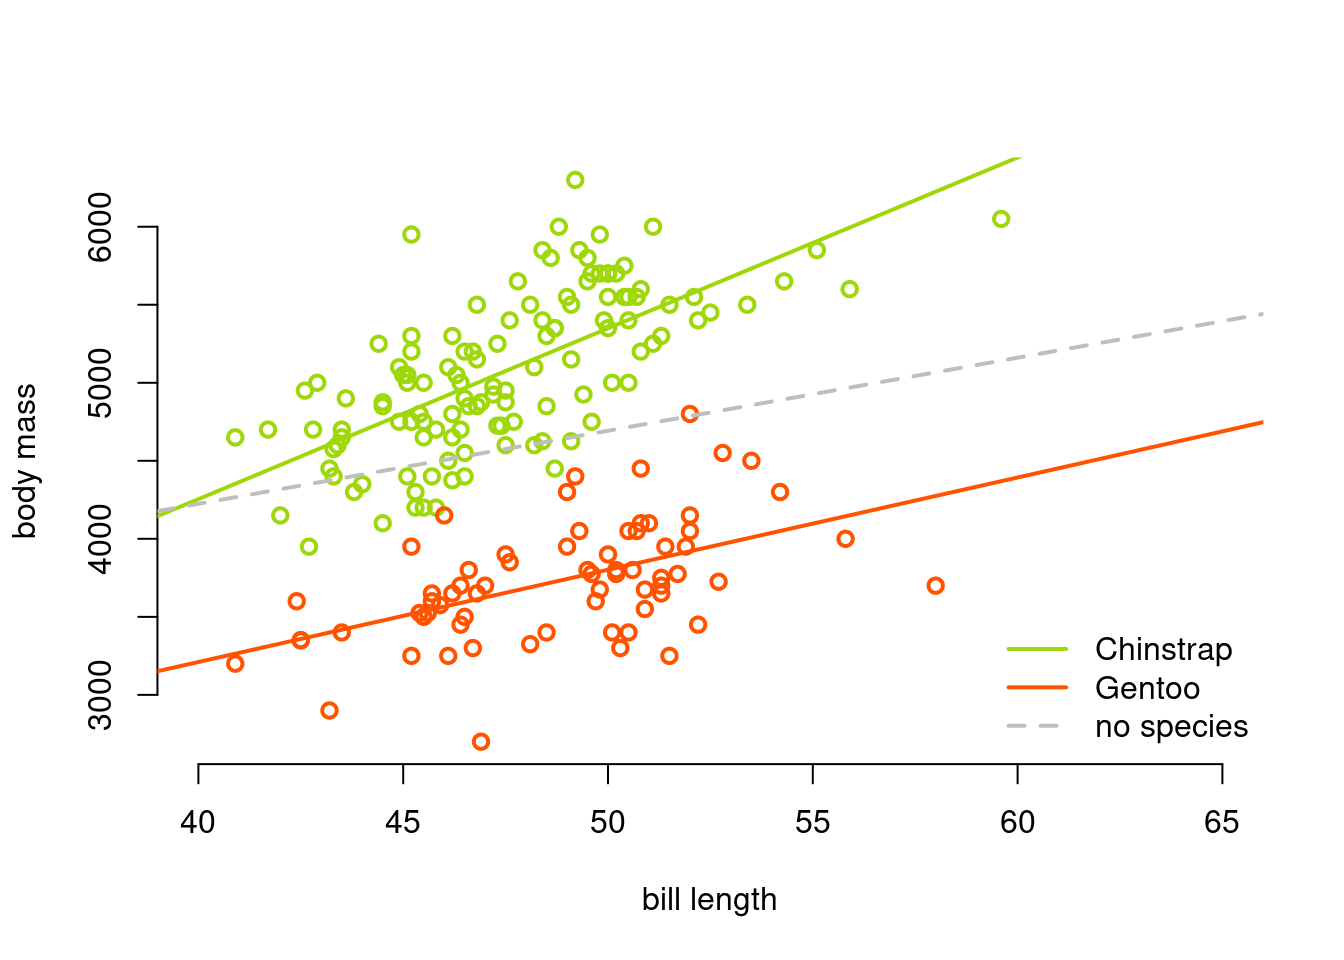
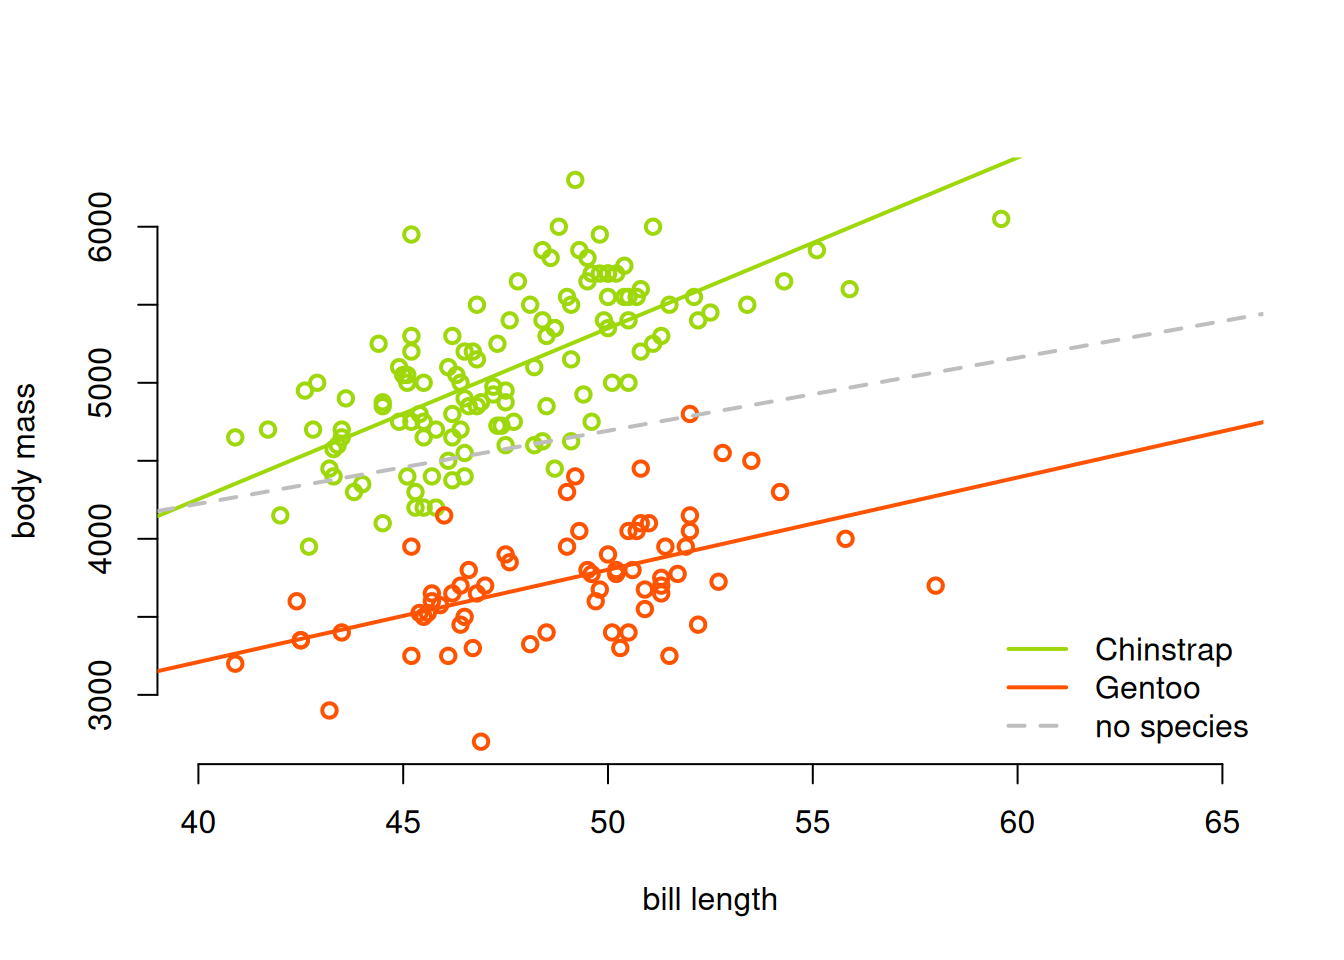
stuff

diff --git a/docs/lm-multiplepredictors.html b/docs/lm-multiplepredictors.html
@@ -74,7 +74,7 @@ pre > code.sourceCode > span > a:first-child::before { text-decoration: underlin
 <link href="site_libs/quarto-html/quarto-syntax-highlighting-2f5df379a58b258e96c21c0638c20c03.css" rel="stylesheet" id="quarto-text-highlighting-styles">
 <script src="site_libs/bootstrap/bootstrap.min.js"></script>
 <link href="site_libs/bootstrap/bootstrap-icons.css" rel="stylesheet">
-<link href="site_libs/bootstrap/bootstrap-c070a593f77c277f96034645df36e7e4.min.css" rel="stylesheet" append-hash="true" id="quarto-bootstrap" data-mode="light">
+<link href="site_libs/bootstrap/bootstrap-8113be787f79969ba645dd3b6582be9f.min.css" rel="stylesheet" append-hash="true" id="quarto-bootstrap" data-mode="light">
 <script id="quarto-search-options" type="application/json">{
   "location": "sidebar",
   "copy-button": false,
@@ -351,7 +351,7 @@ window.Quarto = {
 <div class="cell-output-display">
 <div>
 <figure class="figure">
-<p><img src="lm-multiplepredictors_files/figure-html/unnamed-chunk-2-1.png" class="img-fluid figure-img" width="672"></p>
+<p><img src="lm-multiplepredictors_files/figure-html/unnamed-chunk-1-1.png" class="img-fluid figure-img" width="672"></p>
 </figure>
 </div>
 </div>
@@ -364,7 +364,7 @@ window.Quarto = {
 <div class="cell-output-display">
 <div>
 <figure class="figure">
-<p><img src="lm-multiplepredictors_files/figure-html/unnamed-chunk-3-1.png" class="img-fluid figure-img" width="672"></p>
+<p><img src="lm-multiplepredictors_files/figure-html/unnamed-chunk-2-1.png" class="img-fluid figure-img" width="672"></p>
 </figure>
 </div>
 </div>
@@ -390,6 +390,12 @@ window.Quarto = {
 <li>You can pick a new model</li>
 <li>You can continue onward. Linear models (particularly ANOVAs) tend to be robust to assumption breaking, but only to a point</li>
 </ol>
+<div class="fyi">
+<p><strong>General vs Generalized linear models</strong></p>
+<p>These are often confused!</p>
+<p>This section will discuss a general linear model.</p>
+<p>In contrast, generalized linear models are linear models that relax the assumption that the residuals are normally distributed. Instead, the residuals can follow alternative distributions like the exponential, binomial, poisson… etc. You will learn more about these models in 831</p>
+</div>
 </section>
 </section>
 <section id="motivating-example" class="level2" data-number="7.3">
@@ -405,7 +411,7 @@ window.Quarto = {
 <div class="cell-output-display">
 <div>
 <figure class="figure">
-<p><img src="lm-multiplepredictors_files/figure-html/unnamed-chunk-4-1.png" class="img-fluid figure-img" width="672"></p>
+<p><img src="lm-multiplepredictors_files/figure-html/unnamed-chunk-3-1.png" class="img-fluid figure-img" width="672"></p>
 </figure>
 </div>
 </div>
@@ -554,7 +560,7 @@ Signif. codes:  0 '***' 0.001 '**' 0.01 '*' 0.05 '.' 0.1 ' ' 1</code></pre>
 <div class="cell-output-display">
 <div>
 <figure class="figure">
-<p><img src="lm-multiplepredictors_files/figure-html/unnamed-chunk-11-1.png" class="img-fluid figure-img" width="672"></p>
+<p><img src="lm-multiplepredictors_files/figure-html/unnamed-chunk-9-1.png" class="img-fluid figure-img" width="672"></p>
 </figure>
 </div>
 </div>
@@ -571,7 +577,7 @@ Signif. codes:  0 '***' 0.001 '**' 0.01 '*' 0.05 '.' 0.1 ' ' 1</code></pre>
 <div class="cell-output-display">
 <div>
 <figure class="figure">
-<p><img src="lm-multiplepredictors_files/figure-html/unnamed-chunk-12-1.png" class="img-fluid figure-img" width="672"></p>
+<p><img src="lm-multiplepredictors_files/figure-html/unnamed-chunk-10-1.png" class="img-fluid figure-img" width="672"></p>
 </figure>
 </div>
 </div>
@@ -672,10 +678,6 @@ Signif. codes:  0 '***' 0.001 '**' 0.01 '*' 0.05 '.' 0.1 ' ' 1</code></pre>
 <p>The leftmost matrix is a <em>design matrix</em> where each row corresponds to an individual <span class="math inline">\(i\)</span> and each column corresponds to an explanatory variable. A cell in the <span class="math inline">\(i^{th}\)</span> row and <span class="math inline">\(j^{th}\)</span> column corresponds to individual <span class="math inline">\(i\)</span>’s value for the <span class="math inline">\(j^{th}\)</span> explanatory variable. The first row corresponds to the intercept so all individuals have a value of 1.</p>
 <p>The middle matrix is a list of the estimated effect sizes for each corresponding explanatory variable.</p>
 <p>The dot product of these two matrices gives us the predicted value for the response variable for each individual.</p>
-<div class="fyi">
-<p><strong>General vs Generalized linear models</strong></p>
-<p>These are often confused!</p>
-</div>
 
 
 </section>

diff --git a/docs/lab5.1-regression.html b/docs/lab5.1-regression.html
@@ -74,7 +74,7 @@ pre > code.sourceCode > span > a:first-child::before { text-decoration: underlin
 <link href="site_libs/quarto-html/quarto-syntax-highlighting-2f5df379a58b258e96c21c0638c20c03.css" rel="stylesheet" id="quarto-text-highlighting-styles">
 <script src="site_libs/bootstrap/bootstrap.min.js"></script>
 <link href="site_libs/bootstrap/bootstrap-icons.css" rel="stylesheet">
-<link href="site_libs/bootstrap/bootstrap-c070a593f77c277f96034645df36e7e4.min.css" rel="stylesheet" append-hash="true" id="quarto-bootstrap" data-mode="light">
+<link href="site_libs/bootstrap/bootstrap-8113be787f79969ba645dd3b6582be9f.min.css" rel="stylesheet" append-hash="true" id="quarto-bootstrap" data-mode="light">
 <script id="quarto-search-options" type="application/json">{
   "location": "sidebar",
   "copy-button": false,

diff --git a/docs/lm-continousvars.html b/docs/lm-continousvars.html
@@ -620,7 +620,11 @@ Show answer
 </div>
 <div id="callout-1" class="callout-1-contents callout-collapse collapse">
 <div class="callout-body-container callout-body">
-<p><span class="math inline">\(\text{Lifespan} =  b_0 + b_1 \times \text{Body Mass} + e_i\)</span></p>
+<p>&lt;&lt;&lt;&lt;&lt;&lt;&lt; HEAD</p>
+<section id="textlifespan-b_0-b_1-times-textbody-mass-e_i" class="level1" data-number="6">
+<h1 data-number="6"><span class="header-section-number">6</span> <span class="math inline">\(\text{Lifespan} =  b_0 + b_1 \times \text{Body Mass} + e_i\)</span></h1>
+<p><span class="math inline">\(\text{Lifespan} =  b_0 + b_1 \times \text{Body_Mass} + e_i\)</span> &gt;&gt;&gt;&gt;&gt;&gt;&gt; c9e95808df6da7b31d7185f24421bc479ec6937d</p>
+</section>
 </div>
 </div>
 </div>
